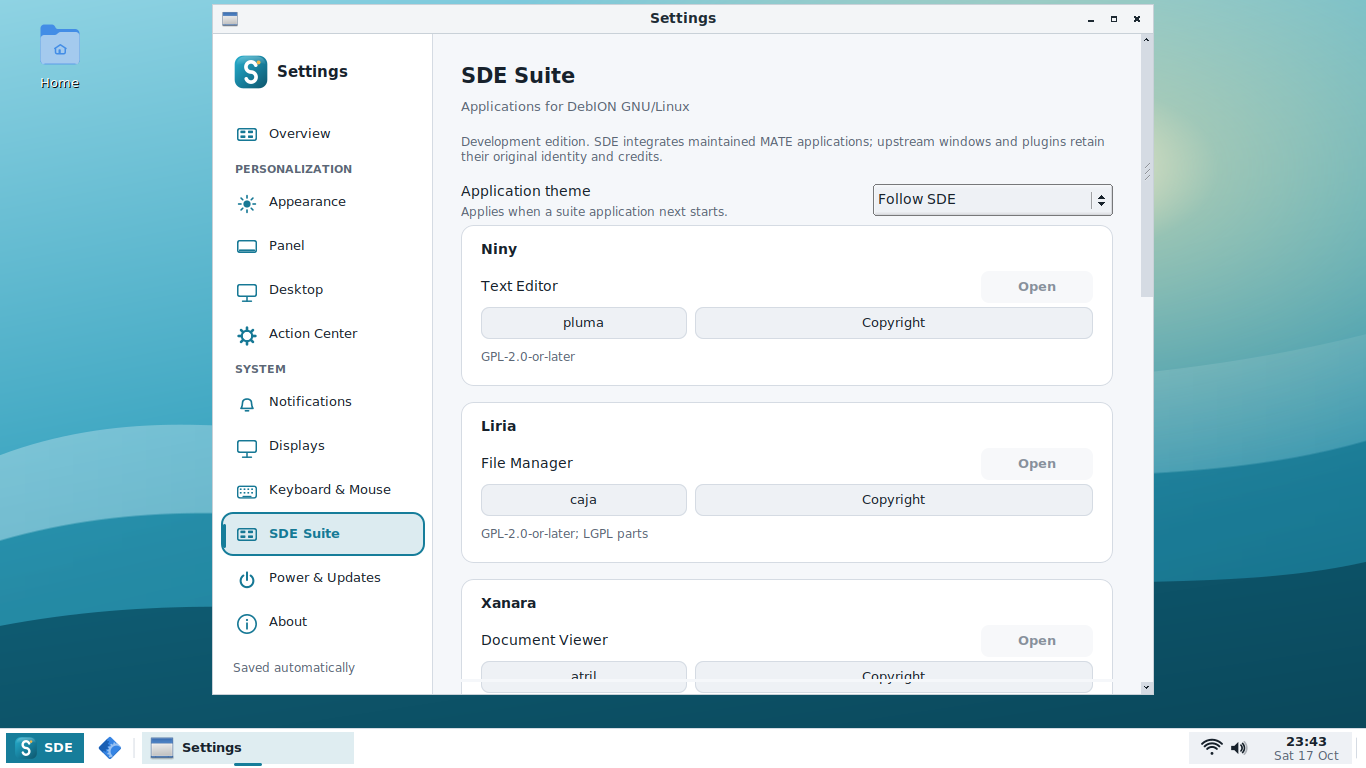
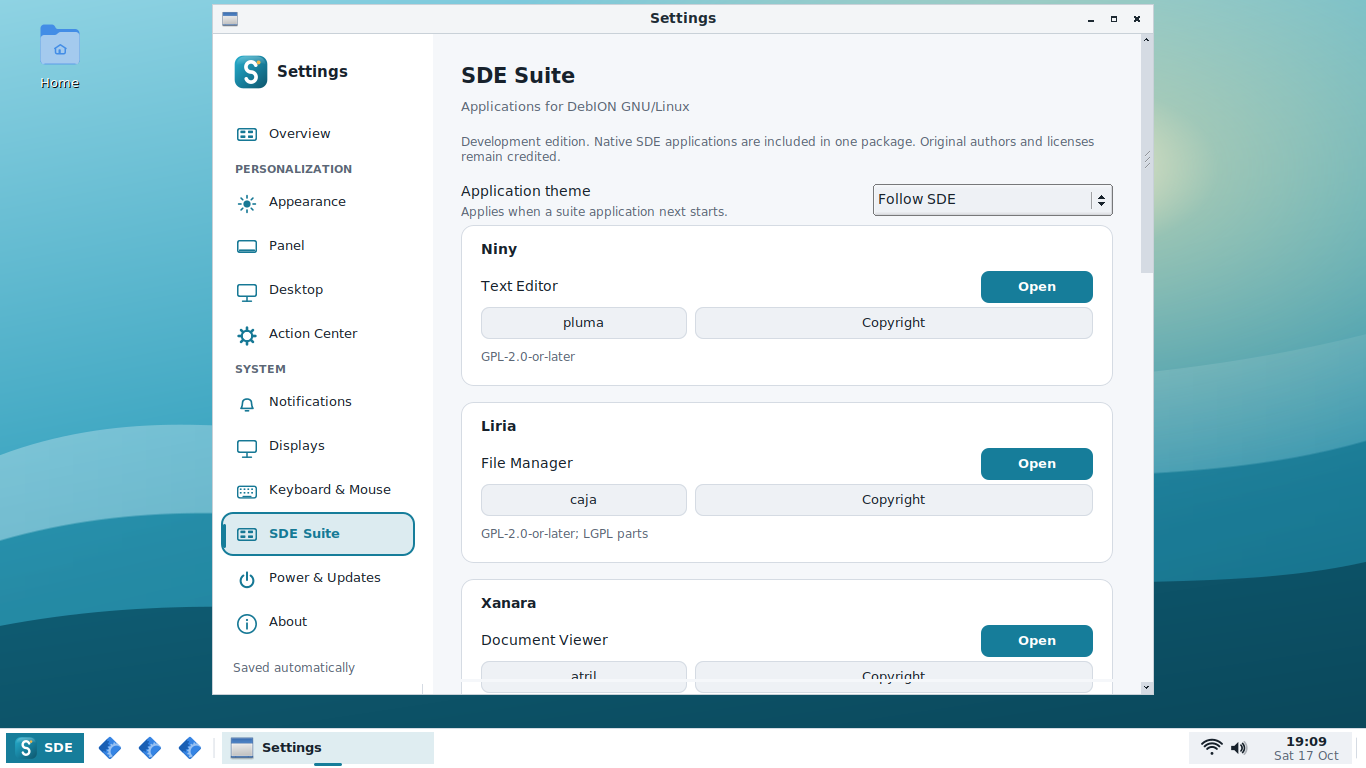
Validate the native locker client and capture the alpha6 suite with full-edge panel

diff --git a/src/settings/main.cpp b/src/settings/main.cpp
@@ -760,8 +760,8 @@ std::string wm_name() {
   return n.empty() ? _("unknown") : n;
 }
 
-// Source names are short clickable links. Licenses open the installed backend's
-// complete Debian copyright file, including all historical contributors.
+// Source names are short clickable links. Licenses open the installed fork's
+// complete copyright file, including all historical contributors.
 FlatButton *action_button(int x, int y, int w, int h, const std::string &label, std::vector<std::string> argv,
                           bool primary = false) {
   auto *button = new FlatButton(x, y, w, h, label, primary);
@@ -777,8 +777,8 @@ FlatButton *action_button(int x, int y, int w, int h, const std::string &label, 
 void build_suite(Page *page) {
   page->heading(_("SDE Suite"), _("Applications for DebION GNU/Linux"));
   page->note(
-      _("Development edition. SDE integrates maintained MATE applications; upstream windows and plugins "
-        "retain their original identity and credits."));
+      _("Development edition. Native SDE applications are included in one package. "
+        "Original authors and licenses remain credited."));
   page->choice_row(
       _("Application theme"), {_("Follow SDE"), _("System GTK theme")},
       g_cfg.get("suite", "gtk_theme", "auto") == "system" ? 1 : 0,
@@ -805,7 +805,7 @@ void build_suite(Page *page) {
     page->end_card();
   }
   page->note(
-      _("MATE engines keep their own licenses. The SDE Update model is adapted from mintupdate; PackageKit "
+      _("Original application licenses and copyrights are retained. SDE Update credits mintupdate; PackageKit "
         "performs Debian transactions."));
   page->finish();
 }

diff --git a/tools/ui-smoke.py b/tools/ui-smoke.py
@@ -14,7 +14,7 @@ parser.add_argument("--output-dir", type=Path, default=Path("dist/ui-smoke"))
 parser.add_argument(
     "--suite-apps",
     action="store_true",
-    help="Also open real installed suite engines with sample files",
+    help="Also open native suite applications with sample files",
 )
 parser.add_argument("--size", default="1366x768")
 parser.add_argument("--scale", type=int, default=100, choices=[100, 125, 150, 175, 200])
@@ -344,10 +344,12 @@ try:
     if args.suite_apps:
         import zipfile
 
+        config("full")
+        reload_panel()
         folder = home / "SDE-Suite-Check"
         folder.mkdir()
         text = folder / "SDE-sample.txt"
-        text.write_text("SDE Suite · Niny integration check\n")
+        text.write_text("SDE Suite · Niny native build check\n")
         document = folder / "SDE-sample.pdf"
         stream = b"BT /F1 18 Tf 40 150 Td (SDE Suite - Xanara) Tj ET"
         objects = [

diff --git a/tools/test-suite.py b/tools/test-suite.py
@@ -17,7 +17,12 @@ for name in apps:
     data=path.read_bytes()
     assert data[:4]==b'\x7fELF' and data!=helper,name
     dynamic=subprocess.check_output(['readelf','-d',str(path)],text=True)
-    assert 'libgtk' in dynamic or 'libgobject' in dynamic,(name,dynamic)
+    if name == 'sde-screensaver-command':
+        # This native command-line client talks to the locker over D-Bus;
+        # it intentionally has no GTK window or direct GObject dependency.
+        assert 'libglib-2.0' in dynamic and 'libdbus' in dynamic,(name,dynamic)
+    else:
+        assert 'libgtk' in dynamic or 'libgobject' in dynamic,(name,dynamic)
 subprocess.run([str(binary/'sde-suite'),'--check'],check=True)
 client='/usr/bin/pkgcli' if os.access('/usr/bin/pkgcli',os.X_OK) else '/usr/bin/pkcon'
 for action,expected in [('refresh',[client,'refresh']+(['force'] if client.endswith('pkcon') else [])),('upgrade',[client,'update'])]:

diff --git a/README.md b/README.md
@@ -4,7 +4,7 @@
 
 Development version **0.1 Alpha 6** (`0.1.0~alpha6`) · October 2026 · GPL-3.0-or-later
 
-![SDE Alpha 5 with a full-edge square panel and integrated suite](docs/screenshots/suite/07-settings-suite.png)
+![SDE Alpha 6 with native suite and a full-edge square panel](docs/screenshots/suite/07-settings-suite.png)
 
 SDE combines a **Rust core** for configuration and XDG autostart with a **C++17**
 interface using **FLTK**, **cairo**, **Xlib** and **libdbus**, and **Openbox** as its
@@ -50,13 +50,14 @@ one `sde` package with their resources and preserved copyrights. The original
 MATE application packages are not installed. Shared GTK/MATE libraries remain
 normal dependencies. SDE Update has a native interface, an attributed Mint Update
 model and Debian PackageKit transactions. See the [suite guide](docs/SUITE.md)
-and [source credits](docs/THIRD-PARTY.md). The screenshot above records alpha5;
-new native captures are uploaded by CI.
+and [source credits](docs/THIRD-PARTY.md). CI also uploads native application captures.
 
 `sudo apt install sde-desktop` is the single entry point when the two SDE packages
 are available in the DebION repository. The metapackage installs the session,
 suite, Xorg, login, network, sound and media services. No DebION repository is
 created by this project.
+
+![Native Niny editor in SDE](docs/screenshots/suite/10-niny-native.png)
 
 ## Eduka-inspired interface
 

diff --git a/docs/SUITE.md b/docs/SUITE.md
@@ -97,8 +97,8 @@ CI builds and installs on Debian testing, checks actual native ELF files,
 rejects original MATE application packages, checks MIME overrides and copyright
 notices, and opens the five file-handling applications with sample files on X11.
 Network, audio and APT screenshot fixtures are explicitly simulated. No test
-performs a real update, lock, suspend or shutdown. Historical alpha5 screenshots
-show the previous package-engine integration; fresh captures are CI artifacts.
+performs a real update, lock, suspend or shutdown. Native alpha6 captures of Niny and Suite settings are under
+`docs/screenshots/suite`; CI uploads the complete capture set.
 Hardware login, power, locking and whole-desktop idle memory remain to be
 validated on DebION. See [THIRD-PARTY.md](THIRD-PARTY.md) for provenance.
 
